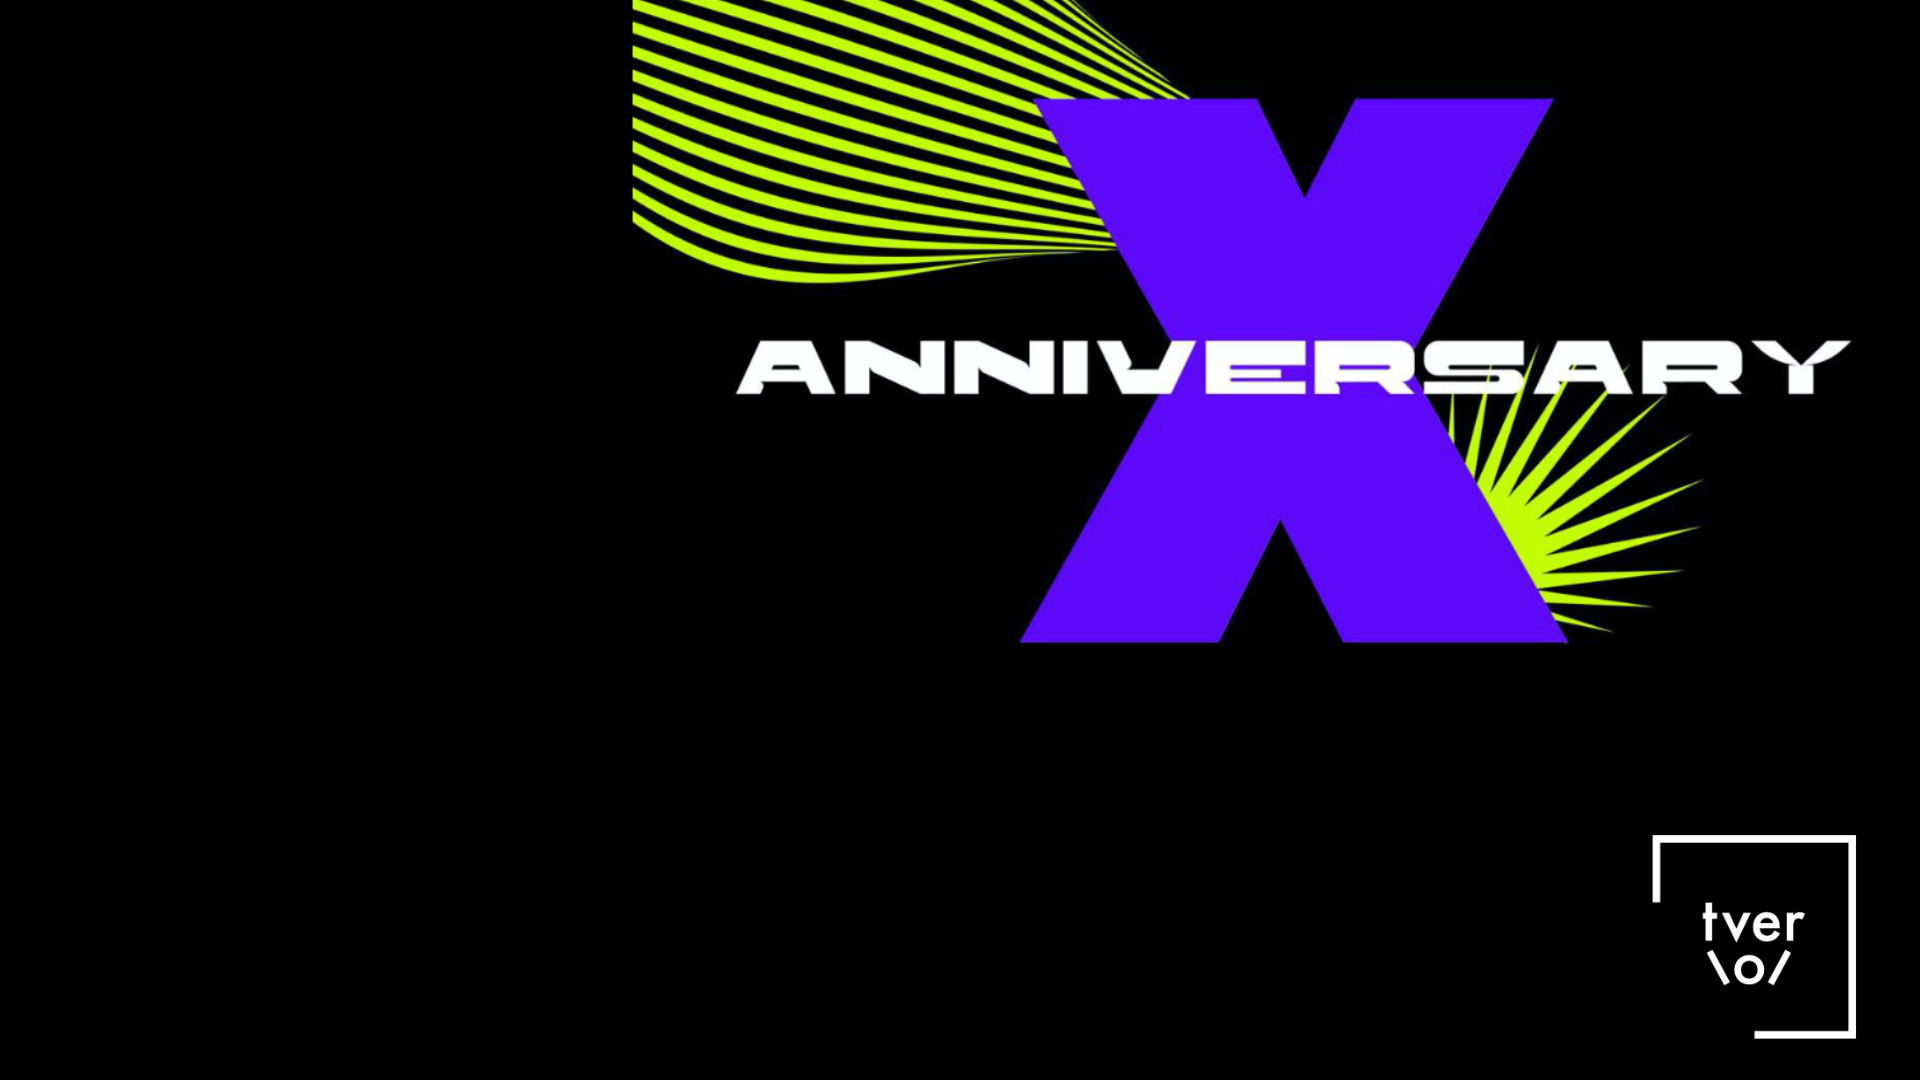
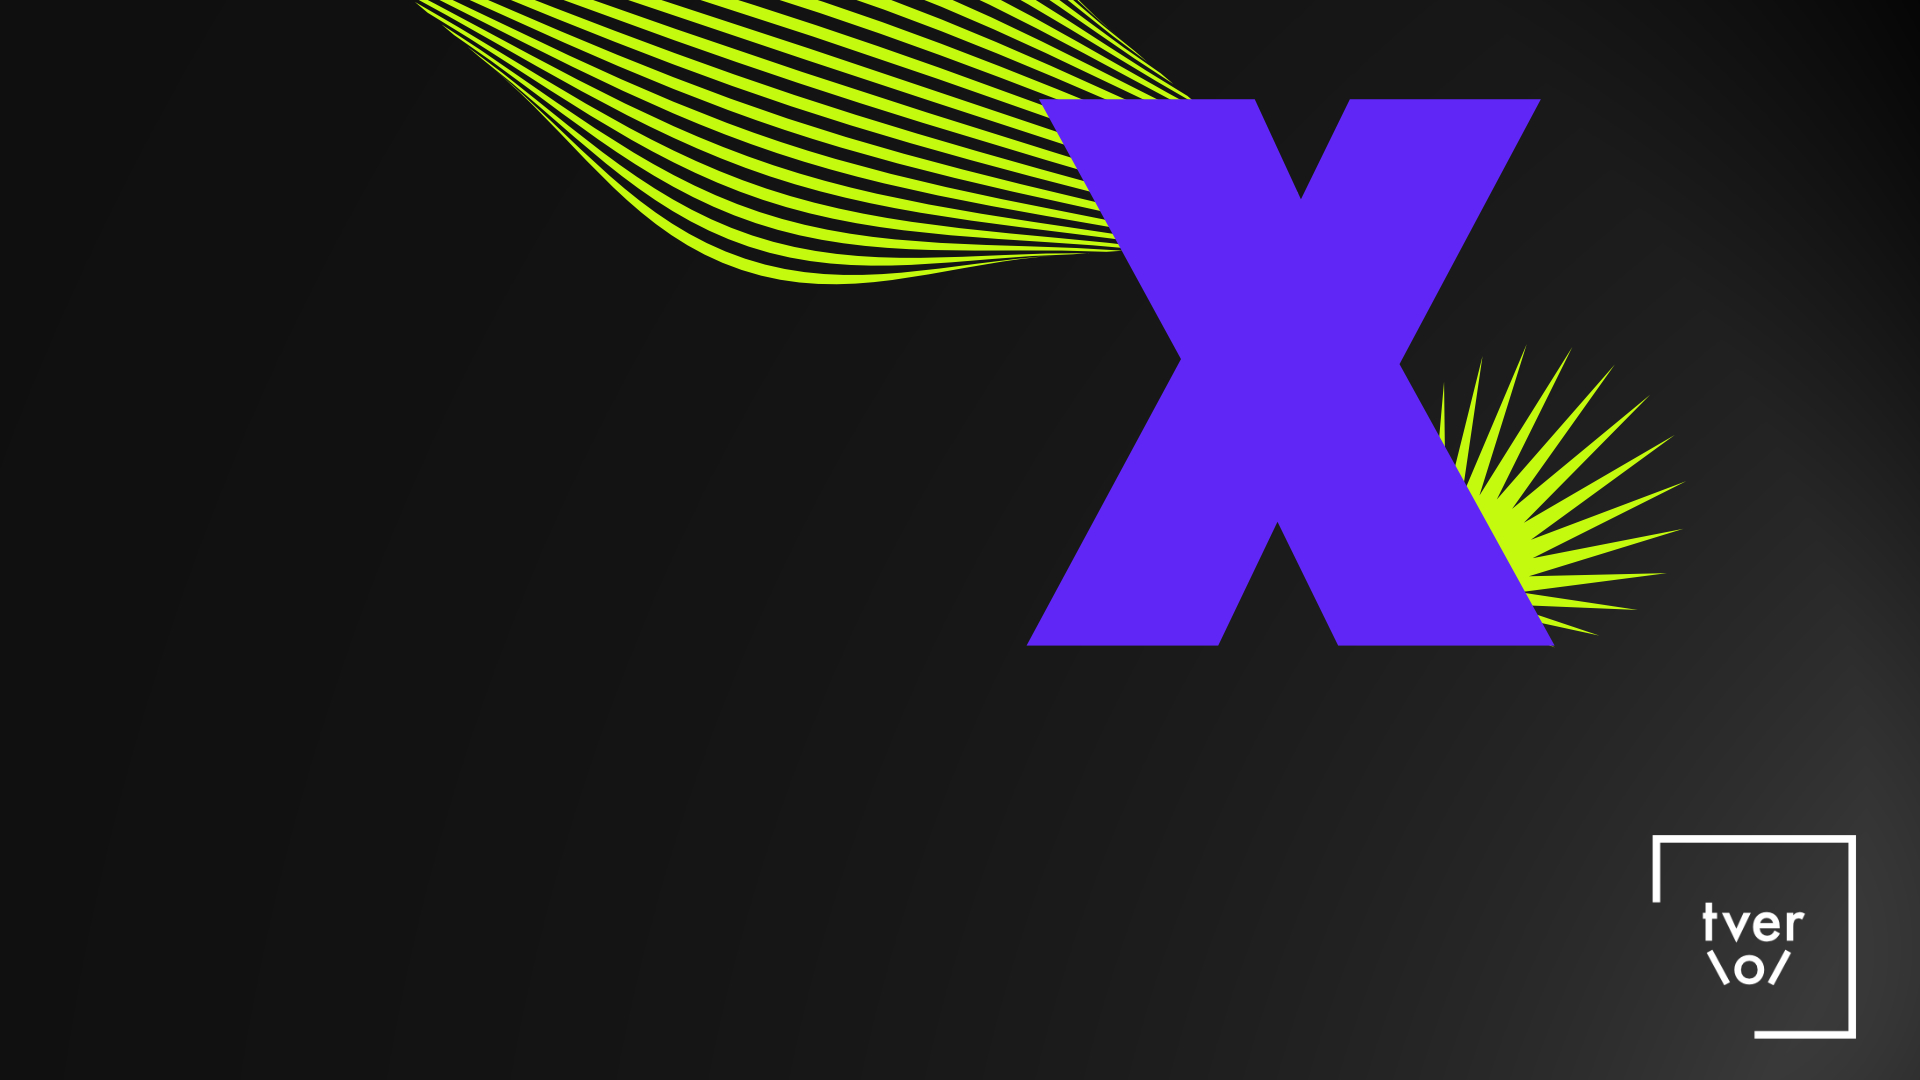
AnniversaryX: Событие tver.io - активисты, нужна ваша помощь!
Событие проходит с 17 по 19 декабря 2020 г. - самое время объединить усилия сообщества!

diff --git a/meetup/x/index.html b/meetup/x/index.html
@@ -109,7 +109,7 @@ return t.innerHTML = "root: { --tmp-var: bold; }", document.head.appendChild(t),
 
         <div class="event-time">
             <div class="section">
-                <div class="hero-main-title"><a href="https://tver.io">Tver.IO</a>✝h</div>
+                <div class="hero-main-title"><a href="https://tver.io">Tver.IO</a> AnniversaryX</div>
                 <div class="hero-title"> 🔴нлайн + Афтепати.</div>
 
                 <div class="hero-title">
